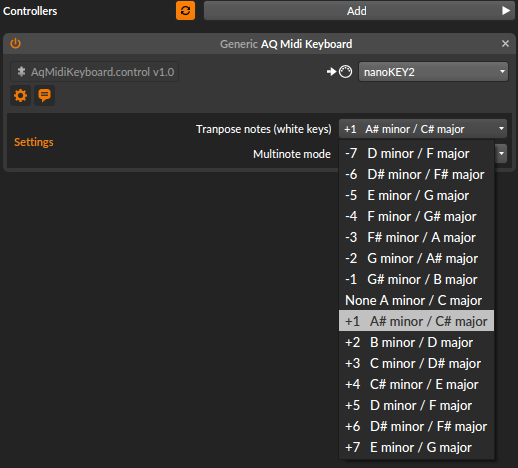
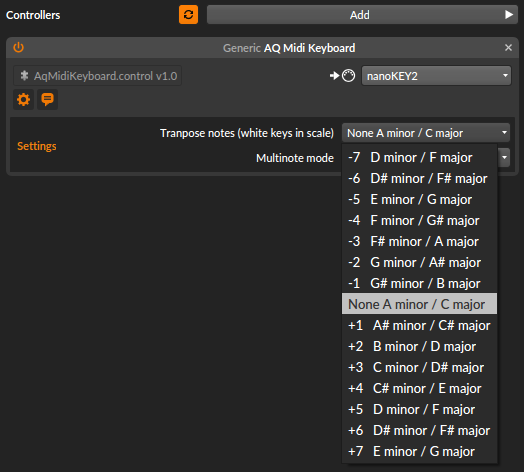
changed screenshot, removed midiprint, some typo

diff --git a/AqMidiKeyboard.control.js b/AqMidiKeyboard.control.js
@@ -14,7 +14,7 @@ function init() {
     allChannels.setMidiCallback(onMidi);
 
     //Transpose settings
-    var transposeSetting = prefs.getEnumSetting("Tranpose notes (white keys)", "Settings",
+    var transposeSetting = prefs.getEnumSetting("Tranpose notes (white keys in scale)", "Settings",
         [
             "-7   D minor / F major",
             "-6   D# minor / F# major",
@@ -98,7 +98,6 @@ function onMidi(status, data1, data2) {
     if (multinote > 0) {
         new_data1 = data1 + transpose + multinote;
         if (new_data1 >= 0 && new_data1 <= 127 - (transpose + 7) && (status === 144 || status === 128)) {
-            printMidi(status, data1, data2);
             notes.sendRawMidiEvent(status, new_data1, data2);
         }
     }

diff --git a/README.md b/README.md
@@ -9,7 +9,7 @@ Just copy `AqMidiKeyboard.contro.js` to following folders:
 - Linux / Mac: `~/Documents/Bitwig Studio/Controller Scripts/`
 
 ## Transpose notes
-It just transpose the notes, so it should be in scale.
+It just transpose the notes, so white keys should be in selected scale.
 
 ![](screenshot1.png)
 
